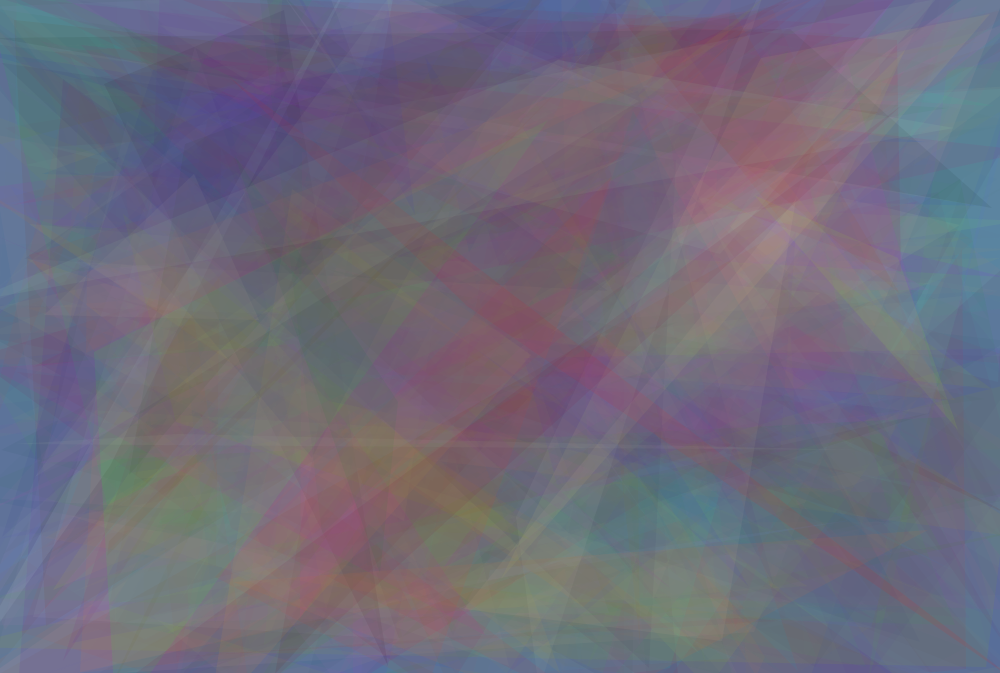
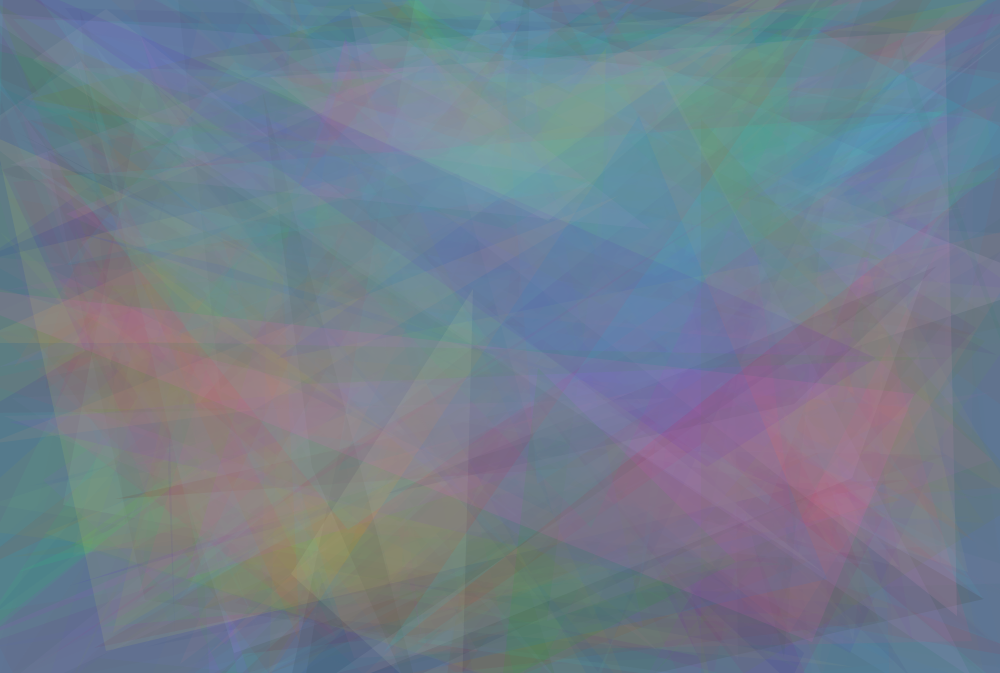
feat: preserve elites and copy bestYet properly
canvas_output is at 2245

diff --git a/src/index.ts b/src/index.ts
@@ -53,42 +53,40 @@ const averageColor = calculateAverageColor(referenceCanvas);
 const numberOfTriangles = 500;
 
 // Genetic Algorithm Parameters
-const populationSize = 100;
-const generations = 100;
-const initialMutationRate = 0.2;
-const eliteSize = 5;
+const populationSize = 50;
+const generations = 9999;
+const initialMutationRate = 0.3;
+const eliteSize = 10;
 
 let mutationRate = initialMutationRate;
 
 let population: Individual[] = generateInitialPopulation(populationSize);
-let bestYet: Individual = population[0];
+
+let bestYet: Individual = { triangles: [], fitness: Infinity };
 
 for (let generation = 0; generation < generations; generation++) {
+  console.log("\nGeneration", generation + 1);
   // Evaluate Fitness
   population = evaluateFitness(population);
 
   // Select Best Individuals
   const bestIndividuals = selectBestIndividuals(population, eliteSize);
+  const bestInGeneration = bestIndividuals[0];
+  console.log("Best Fitness Score", bestInGeneration.fitness);
+  drawIndividual(bestInGeneration);
+  await saveOutput(canvas, `best_from_generation_${(generation + 1).toString().padStart(4, "0")}.png`);
 
   // Preserve the best individual from all generations
-  if (bestIndividuals[0].fitness < bestYet.fitness) {
-    bestYet = bestIndividuals[0];
+  if (bestInGeneration.fitness < bestYet.fitness) {
+    bestYet = deepCopy(bestInGeneration);
     drawIndividual(bestYet);
     await saveOutput(canvas, "best_yet.png");
     mutationRate *= 0.99; // Decrease mutation rate by 1%
     console.log("Reducing mutation rate...", mutationRate);
   }
 
-  // Save the best from generation
-  drawIndividual(bestIndividuals[0]);
-  await saveOutput(canvas, `best_from_generation_${(generation + 1).toString().padStart(4, "0")}.png`);
-
-  // Log the best fitness score of the current generation
-  console.log(`Generation ${generation + 1}: Best Fitness Score = ${bestIndividuals[0].fitness}`);
-
   // Generate Offspring
-  population = generateOffspring(bestIndividuals.concat(bestYet), populationSize, mutationRate);
-  console.log("New population size:", population.length);
+  population = generateOffspring(bestIndividuals.concat(bestYet), populationSize, mutationRate, eliteSize);
 }
 
 function generateInitialPopulation(size: number): Individual[] {
@@ -104,9 +102,20 @@ function selectBestIndividuals(population: Individual[], eliteSize: number): Ind
   return population.sort((a, b) => a.fitness - b.fitness).slice(0, eliteSize);
 }
 
-function generateOffspring(bestIndividuals: Individual[], populationSize: number, mutationRate: number): Individual[] {
+function generateOffspring(
+  bestIndividuals: Individual[],
+  populationSize: number,
+  mutationRate: number,
+  eliteSize: number
+): Individual[] {
   const offspring: Individual[] = [];
 
+  // Preserve the elite individuals
+  for (let i = 0; i < eliteSize; i++) {
+    offspring.push(bestIndividuals[i]);
+  }
+
+  // Generate the rest of the population
   while (offspring.length < populationSize - 1) {
     const parent1 = bestIndividuals[Math.floor(Math.random() * bestIndividuals.length)];
     const parent2 = bestIndividuals[Math.floor(Math.random() * bestIndividuals.length)];
@@ -193,4 +202,8 @@ function drawTriangle(triangle: Triangle): void {
 
   ctx.fillStyle = `rgba(${color.red}, ${color.green}, ${color.blue}, ${color.opacity})`;
   ctx.fill();
+}
+
+function deepCopy(individual: Individual): Individual {
+  return JSON.parse(JSON.stringify(individual));
 }
